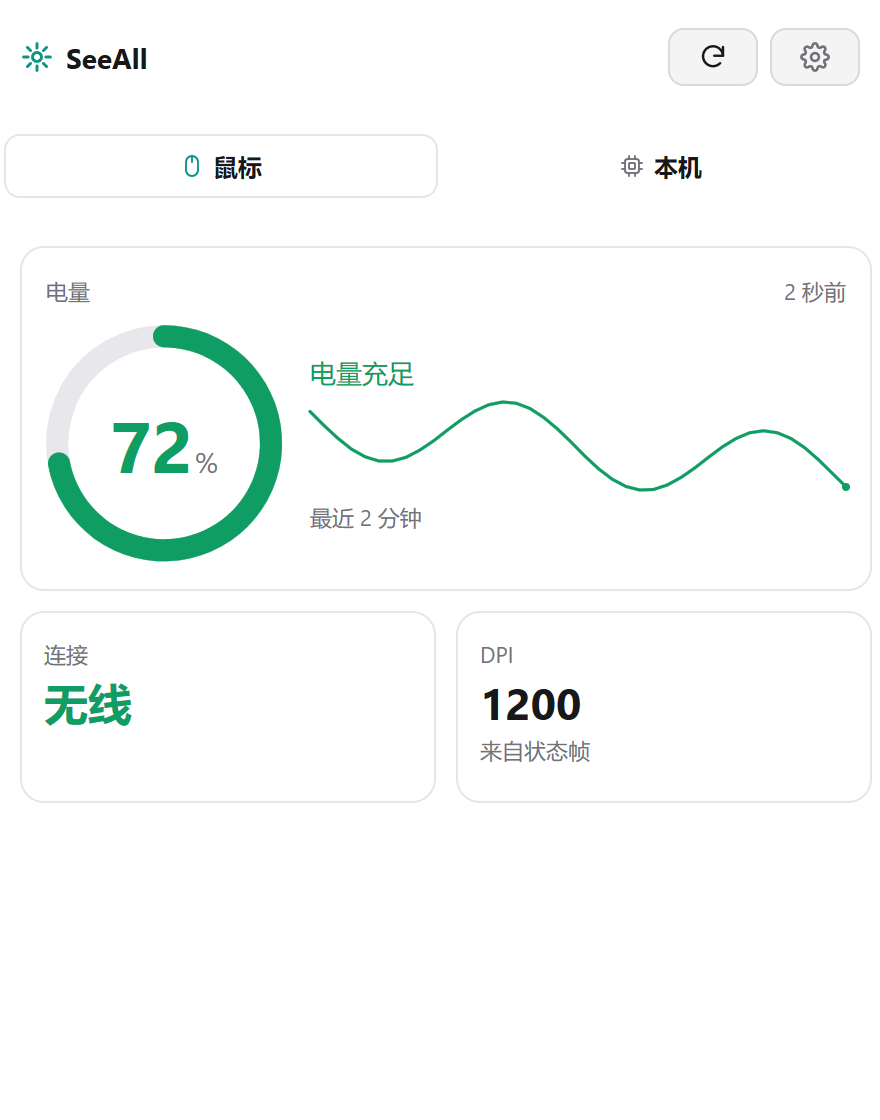
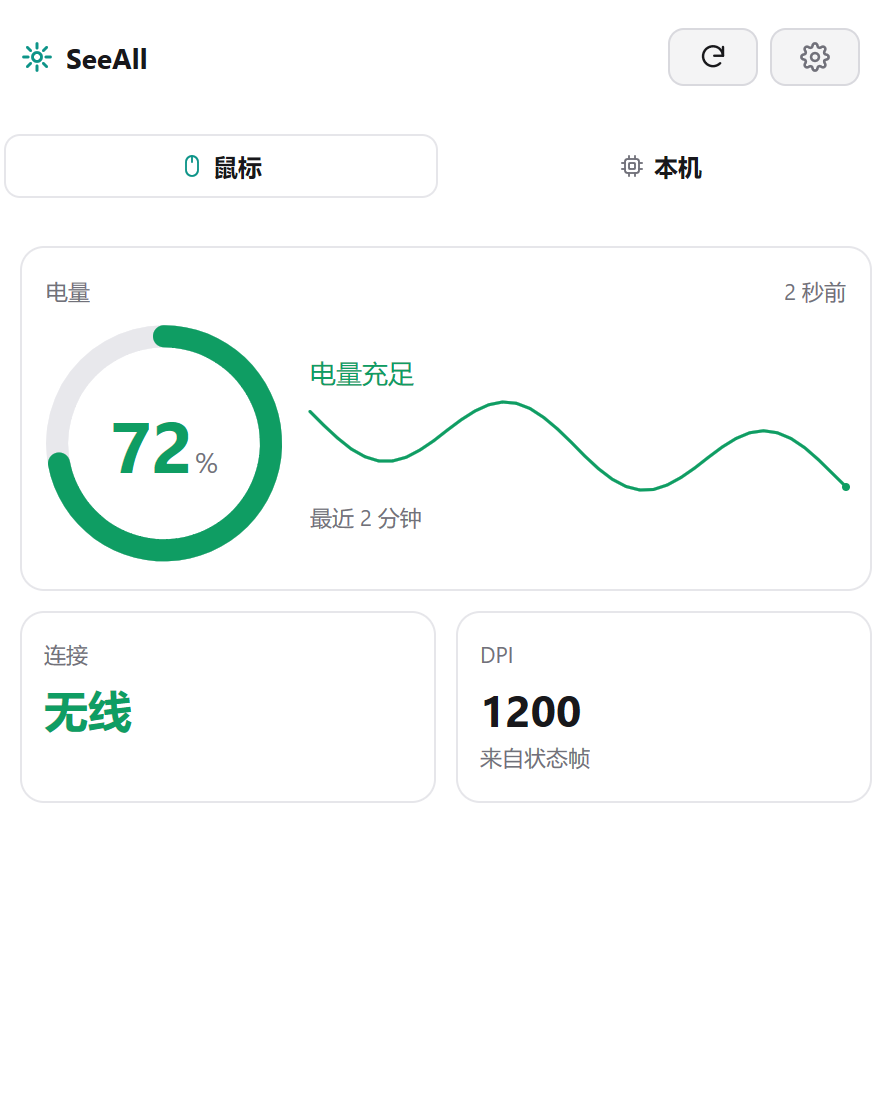
feat: 小卡的折线挪到右上角
原来是「标签 → 值 → 说明 → 折线贴底」，折线在不在决定了卡片高度，一排卡就高低
不齐（「开机」没有折线，矮一截）。

改成标签和折线共用一个顶行，折线固定 54×18 DIP 居右。没有折线的读数也占这块
位置，所以同一排的卡片等高，折线也在同一个高度上对齐。

sparkline 拆出一个 drawSparkline(painter, rect, values, color)，给需要在
Draw 回调里自己画的元素用；原来的 sparkline 成为它的薄包装，主卡那处没动。

验证：go build / go vet / gofmt 干净，go test 全绿；cmd/preview 重出三张文档图；
打包版 exe 截图核对（内存/磁盘有折线，电池/开机没有，四张卡等高）。

Changed region(s): [[0.5523, 0.5938, 0.675, 0.6875], [0.0307, 0.5938, 0.1534, 0.6562]]

diff --git a/internal/panel/detail.go b/internal/panel/detail.go
@@ -14,6 +14,14 @@ import (
 // the panel at its narrowest, wide enough for a number and its unit.
 const cardsPerRow = 2
 
+// trendWidth and trendHeight size the trend in the top right of a card. The
+// room is kept whether a reading has a trend or not, so that cards in a row
+// keep the same height and the trends line up.
+const (
+	trendWidth  = 54
+	trendHeight = 18
+)
+
 // detail is a monitor's page: the reading that matters in the hero card at the
 // top, and every other reading as a card of its own under it.
 func (a *App) detail(c *ui.Context, p palette, in *app.Instance) {
@@ -132,18 +140,34 @@ func (a *App) readingCard(c *ui.Context, p palette, in *app.Instance, r core.Rea
 		valueColor = p.severityColor(r.Severity)
 	}
 	card(c, p).Padding(13, 11).Gap(2).MinHeight(96).Children(func() {
-		ui.Text(c, r.Label).FontSize(11).TextColor(p.TextMuted).NoWrap().MaxLines(1)
+		// The label and the trend share the card's top row, the trend at its
+		// right, so the eye finds the shape of a value in the same place on
+		// every card.
+		ui.Row(c).Gap(8).AlignItems(ui.Start).MinHeight(trendHeight).Children(func() {
+			ui.Text(c, r.Label).FontSize(11).TextColor(p.TextMuted).
+				NoWrap().MaxLines(1).Grow(1)
+			a.trend(c, p, in, r, trendWidth)
+		})
 		// A value of words is set as the same size as a number: a card of
 		// "无线" beside a card of "1200" is one row of cards, not two.
 		ui.Text(c, r.Format()).FontSize(22).Bold().TextColor(valueColor).Wrap().MaxLines(2)
 		if r.Detail != "" {
 			ui.Text(c, r.Detail).FontSize(11).TextColor(p.TextMuted).NoWrap().MaxLines(1)
 		}
-		if history := in.History(r.ID); varies(history) {
-			ui.Spacer(c)
-			sparkline(c, p, history, quietColor(p, r.Severity), 20)
-		}
 	})
+}
+
+// trend draws the recent values of a reading as a sparkline in a box of the
+// size every card keeps for it. A reading without a history worth drawing
+// leaves the box empty, so that the room stays where the other cards have it.
+func (a *App) trend(c *ui.Context, p palette, in *app.Instance, r core.Reading, width float32) ui.Element {
+	box := ui.Box(c).Width(width).Height(trendHeight)
+	if history := in.History(r.ID); varies(history) {
+		box.Draw(func(pt *ui.Painter, rect ui.Rect) {
+			drawSparkline(pt, rect, history, quietColor(p, r.Severity))
+		})
+	}
+	return box
 }
 
 func historyWindow(in *app.Instance, readingID string) string {

diff --git a/internal/panel/widgets.go b/internal/panel/widgets.go
@@ -74,33 +74,39 @@ func card(c *ui.Context, p palette) ui.Element {
 // newest point marked.
 func sparkline(c *ui.Context, p palette, values []float64, color ui.Color, height float32) ui.Element {
 	return ui.Box(c).Height(height).Draw(func(pt *ui.Painter, r ui.Rect) {
-		if len(values) < 2 {
-			return
-		}
-		lo, hi := values[0], values[0]
-		for _, v := range values {
-			lo = math.Min(lo, v)
-			hi = math.Max(hi, v)
-		}
-		if hi-lo < 1e-9 {
-			hi = lo + 1
-		}
-		path := &ui.Path{}
-		for i, v := range values {
-			x := r.X + r.W*float32(i)/float32(len(values)-1)
-			y := r.Y + r.H - r.H*float32((v-lo)/(hi-lo))
-			if i == 0 {
-				path.MoveTo(x, y)
-			} else {
-				path.LineTo(x, y)
-			}
-		}
-		pt.StrokePath(path, 1.5, color)
-		last := values[len(values)-1]
-		x := r.X + r.W
-		y := r.Y + r.H - r.H*float32((last-lo)/(hi-lo))
-		pt.Fill(ui.Rect{X: x - 2, Y: y - 2, W: 4, H: 4}, color, 2)
+		drawSparkline(pt, r, values, color)
 	})
+}
+
+// drawSparkline paints values as a line filling r, with the newest point
+// marked, for the elements that draw a trend rather than hand it a box.
+func drawSparkline(pt *ui.Painter, r ui.Rect, values []float64, color ui.Color) {
+	if len(values) < 2 {
+		return
+	}
+	lo, hi := values[0], values[0]
+	for _, v := range values {
+		lo = math.Min(lo, v)
+		hi = math.Max(hi, v)
+	}
+	if hi-lo < 1e-9 {
+		hi = lo + 1
+	}
+	path := &ui.Path{}
+	for i, v := range values {
+		x := r.X + r.W*float32(i)/float32(len(values)-1)
+		y := r.Y + r.H - r.H*float32((v-lo)/(hi-lo))
+		if i == 0 {
+			path.MoveTo(x, y)
+		} else {
+			path.LineTo(x, y)
+		}
+	}
+	pt.StrokePath(path, 1.5, color)
+	last := values[len(values)-1]
+	x := r.X + r.W
+	y := r.Y + r.H - r.H*float32((last-lo)/(hi-lo))
+	pt.Fill(ui.Rect{X: x - 2, Y: y - 2, W: 4, H: 4}, color, 2)
 }
 
 // varies reports whether a history is worth a sparkline: enough points, and

diff --git a/docs/design.md b/docs/design.md
@@ -114,7 +114,8 @@ Height = round(840 / scale)
 - **标题栏**（`header`）：图标 + 应用名 + 刷新 + 设置。
 - **标签页**（`tabs`）：`ui.TabsBase` 自绘，每项 `Grow(1)` 等宽；选中项白底描边，
   状态非「正常」时标签上带彩点——一次只看得到一页，别页的异常得有地方露。
-- **页面**：`detail` 是主读数大卡 + 其余读数的小卡（`ui.Grid` 两列，卡里标签/值/说明/折线）；
+- **页面**：`detail` 是主读数大卡 + 其余读数的小卡（`ui.Grid` 两列）。小卡里标签和折线共用顶行
+  （折线居右，`trendWidth`×`trendHeight` 的固定位置，没有折线也占位），下面依次是值与说明；
   `settings` 是长表单，滚动。
 
 面板里没有状态栏：日志和退出留在托盘右键菜单，面板只负责看。

diff --git a/README.md b/README.md
@@ -74,7 +74,7 @@ Width  = round(660 / scale)                  // DIP：1x→660，1.5x→440，2x
 
 - **标题栏**：应用名 + 刷新 + 设置。
 - **标签页**：每个监控项一个，等宽铺满，选中项是白底描边的卡片；状态不是「正常」时标签上是彩点，因为一次只看得到一页。
-- **页面**：主读数一张大卡（环 + 趋势），其余每个读数一张小卡，两张一行；卡里是标签、值、说明和趋势折线。读数多了整页滚动。
+- **页面**：主读数一张大卡（环 + 趋势），其余每个读数一张小卡，两张一行。小卡右上角是趋势折线，左上角是标签，下面依次是值和说明；读数多了整页滚动。
 
 页面里没有状态栏，也没有日志和退出按钮：托盘右键菜单里两样都有，面板只管看。
 
